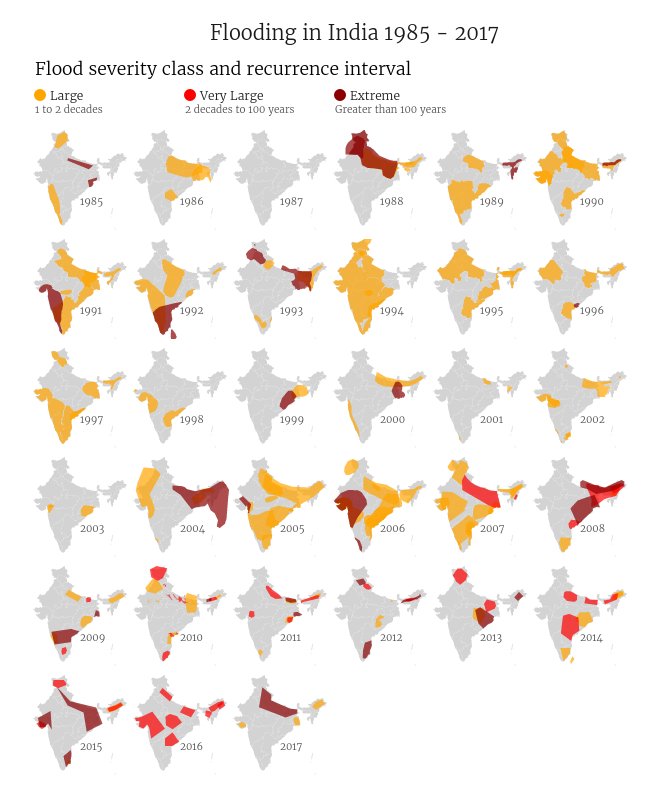
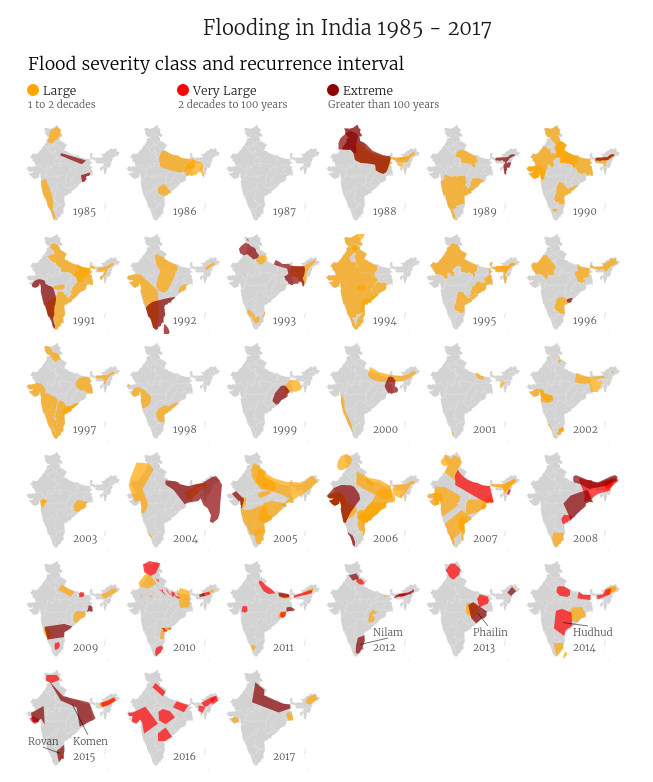
Add image with cyclone names

diff --git a/content/blog/30-years-of-floods-in-india.md b/content/blog/30-years-of-floods-in-india.md
@@ -51,6 +51,17 @@ india_features = [
 ]
 data['features'] = india_features
 
+# FIX some names in the data
+NAME_FIXES = [
+    ('Tropical Storm K', 'Tropical Storm Komen'),
+    ('Tropical Storm Hudhug', 'Tropical Storm Hudhud'),
+]
+for feature in india_features:
+    for name, fix in NAME_FIXES:
+        cause = feature['properties']['MAINCAUSE']
+        if name in cause:
+            feature['properties']['MAINCAUSE'] = cause.replace(name, fix)
+
 with open('india-floods.json', 'w', encoding='latin-1') as f:
     json.dump(data, f)
 ```
